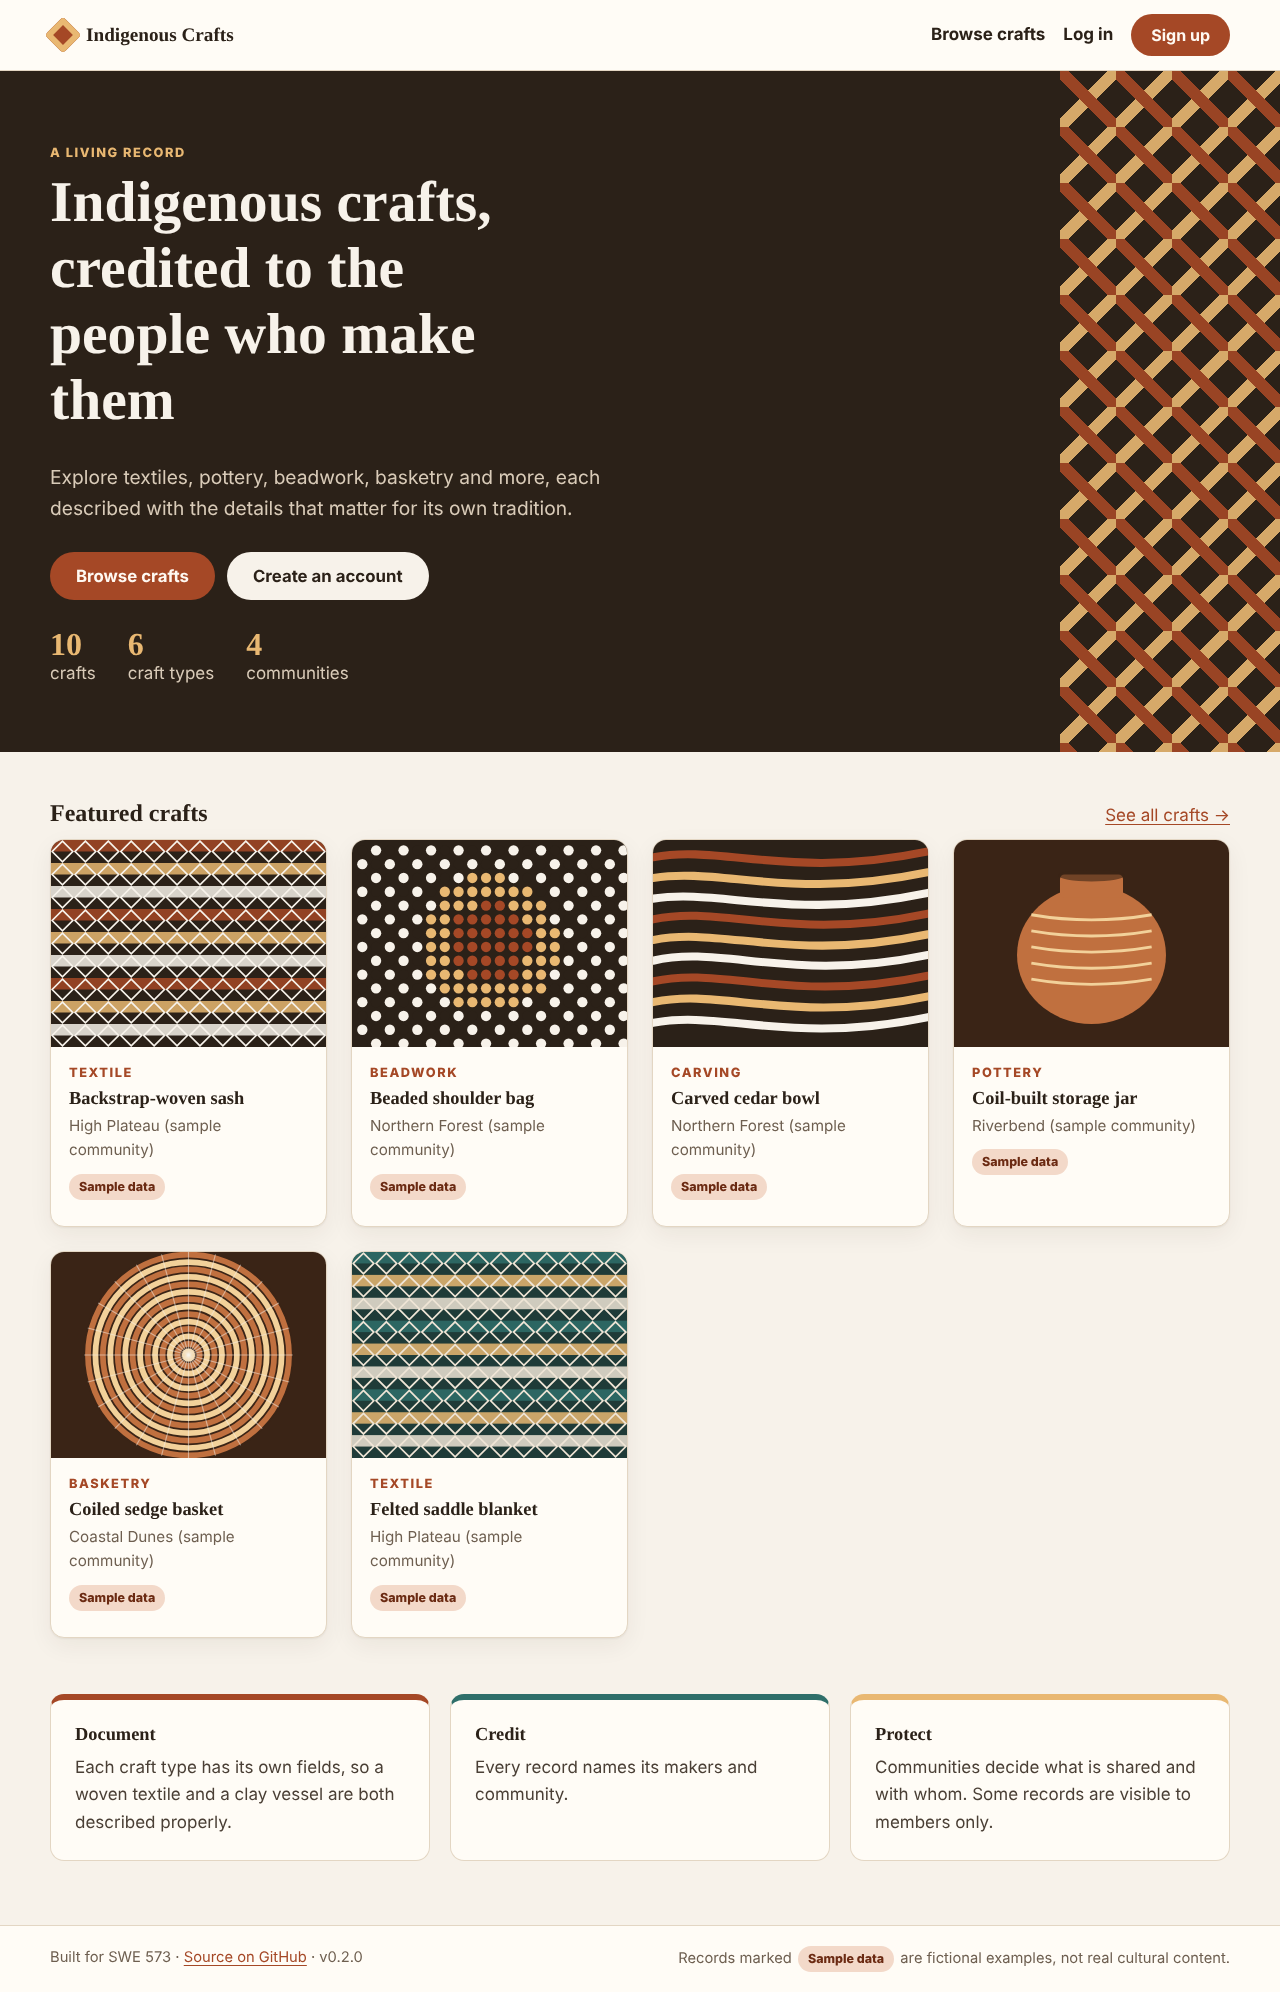
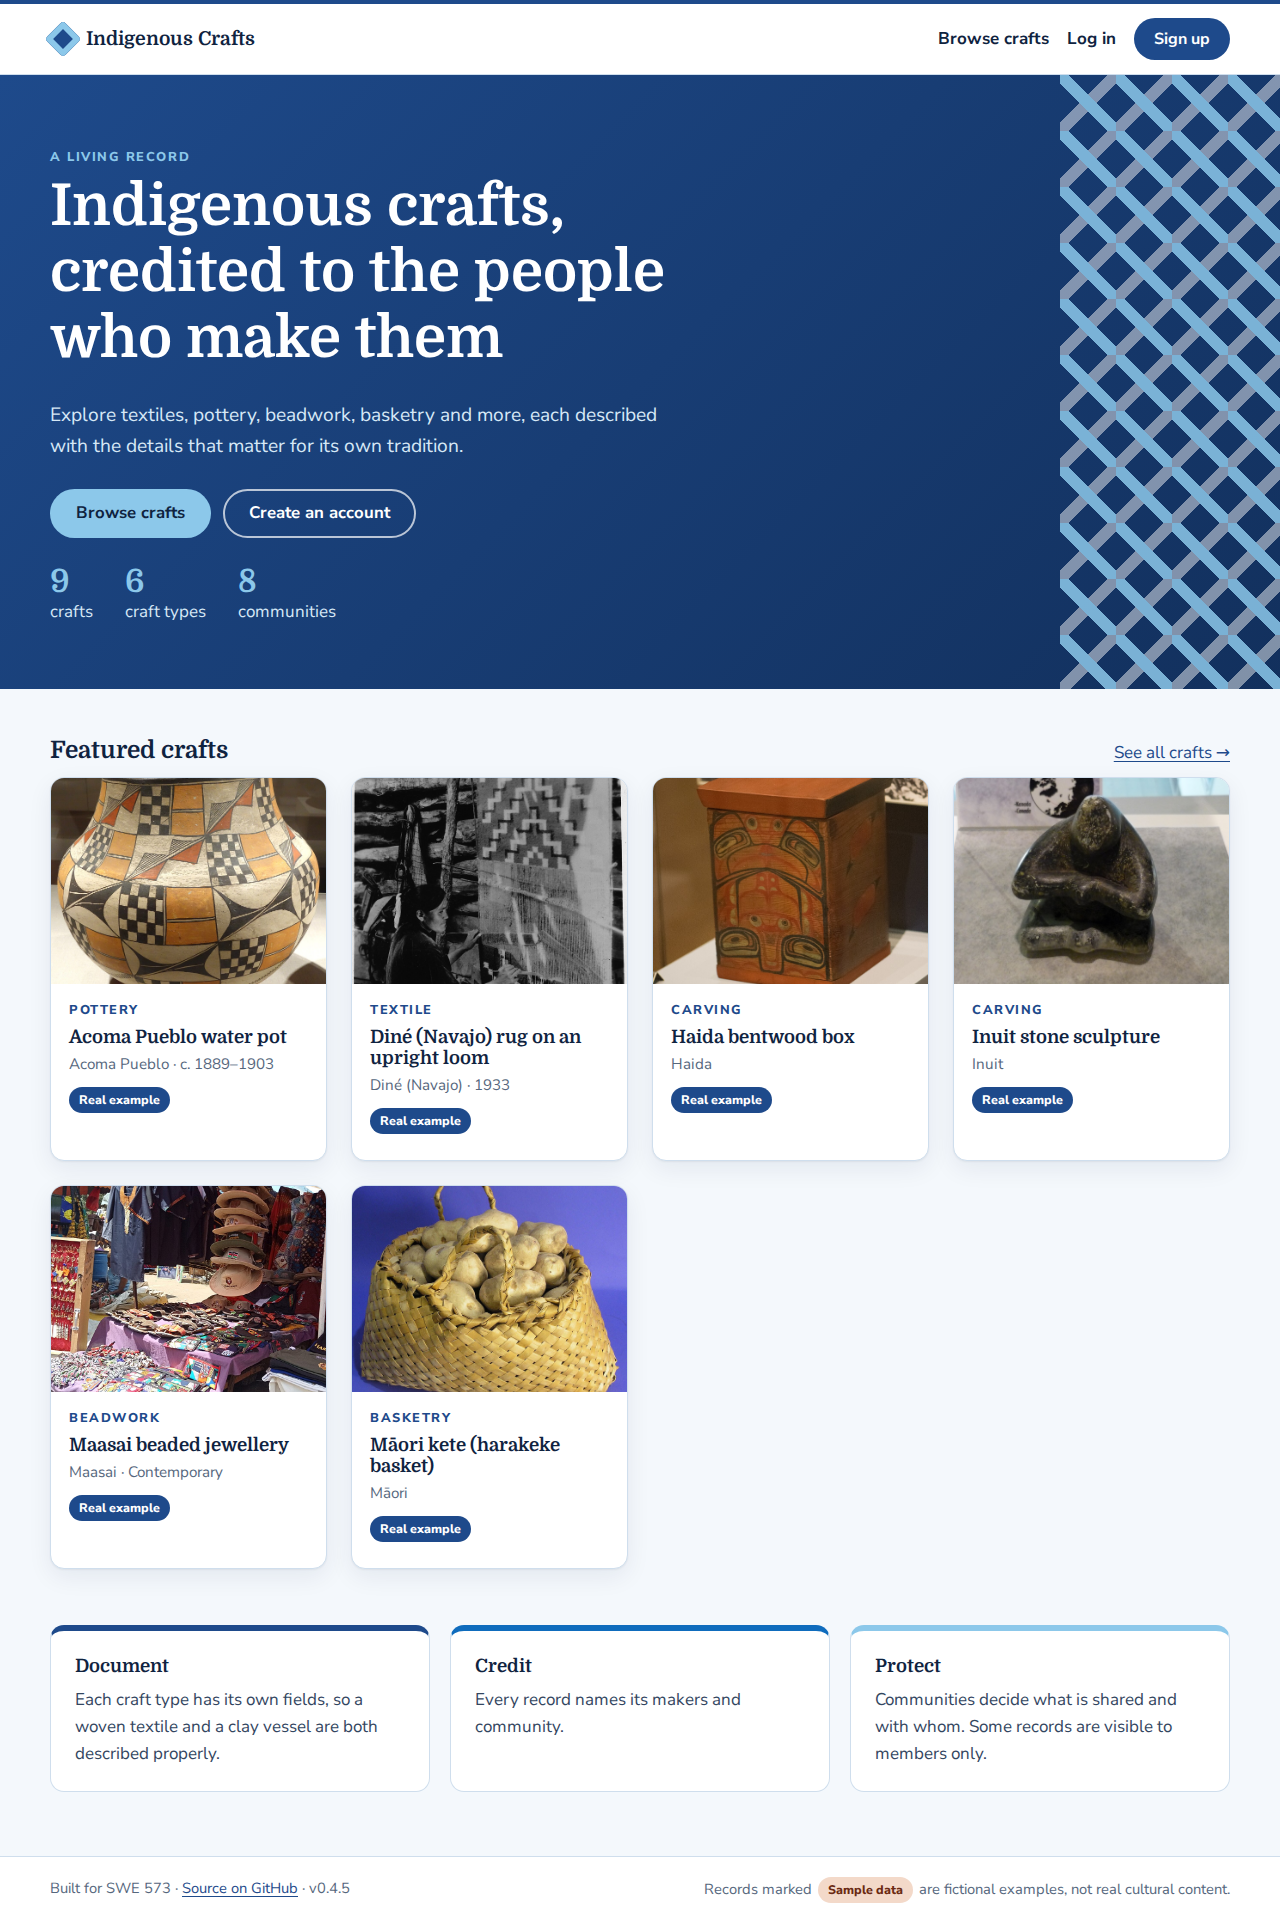
Update the UI design screenshots (v0.4.5) (#83)
* Workflow and script to retake the UI screenshots [take screenshots]

scripts/take_screenshots.py walks the site as a visitor, a new maker and
a phone user, with the real examples loaded. The "UI screenshots"
workflow runs it on GitHub (which can reach Wikimedia Commons and
OpenStreetMap) and commits the images to the branch. Also sorts the
suggested tags case-insensitively.

Claude-Session: https://claude.ai/code/session_018P83JgtRTKuU19G9mVNV45

* UI screenshots taken by the 'UI screenshots' workflow

* Design docs: describe the new screenshots

Groups the 14 screenshots by visitor, accounts and contributing, and
explains how to retake them.

Claude-Session: https://claude.ai/code/session_018P83JgtRTKuU19G9mVNV45

---------

diff --git a/scripts/take_screenshots.py b/scripts/take_screenshots.py
@@ -1,0 +1,176 @@
+"""Take the UI design screenshots in docs/design/screenshots/.
+
+Usage: python scripts/take_screenshots.py http://127.0.0.1:8000 docs/design/screenshots
+
+Expects a fresh database with the real examples loaded (`seed_reference_crafts`).
+Needs internet access for Wikimedia Commons photos and OpenStreetMap tiles, so it runs
+in GitHub Actions (workflow "UI screenshots").
+"""
+
+import os
+import sys
+from pathlib import Path
+
+from playwright.sync_api import Page, sync_playwright
+from playwright.sync_api import TimeoutError as PlaywrightTimeout
+
+BASE = sys.argv[1].rstrip("/")
+OUT = Path(sys.argv[2])
+EXAMPLE = "/crafts/pomo-coiled-dowry-basket-jenny-hughes/"
+PASSWORD = "Woven-Basket-2026"  # noqa: S105 (throwaway demo account in CI)
+OFFLINE = bool(os.environ.get("SCREENSHOT_OFFLINE"))  # selector check without internet
+
+
+def settle(page: Page, maps=False):
+    """Wait until photos (and map tiles) have loaded, so screenshots aren't half-empty."""
+    page.wait_for_load_state("domcontentloaded" if OFFLINE else "networkidle")
+    page.evaluate(
+        "document.querySelectorAll('img[loading=lazy]').forEach(i => i.loading = 'eager')"
+    )
+    if not OFFLINE:
+        try:
+            page.wait_for_function(
+                "Array.from(document.images).every(i => i.complete)", timeout=30_000
+            )
+            if maps:
+                page.wait_for_selector(".leaflet-tile-loaded", timeout=30_000)
+        except PlaywrightTimeout:
+            print("  warning: some images or map tiles did not load in time")
+    page.wait_for_timeout(1500)
+
+
+def shot(page: Page, name, full=True, maps=False):
+    settle(page, maps)
+    page.screenshot(path=OUT / name, full_page=full)
+    print("saved", name)
+
+
+def sign_up(page: Page, email):
+    page.goto(f"{BASE}/accounts/signup/")
+    page.fill("input[name=email]", email)
+    page.fill("input[name=password1]", PASSWORD)
+    page.fill("input[name=password2]", PASSWORD)
+    page.locator("button[type=submit]").click()
+    page.wait_for_load_state()
+
+
+def main():
+    OUT.mkdir(parents=True, exist_ok=True)
+    with sync_playwright() as p:
+        browser = p.chromium.launch(
+            executable_path=os.environ.get("PLAYWRIGHT_CHROMIUM_EXECUTABLE") or None
+        )
+
+        # ---- Visitor, desktop ----
+        desk = browser.new_context(viewport={"width": 1280, "height": 800}, locale="en-GB")
+        page = desk.new_page()
+        page.goto(BASE + "/")
+        shot(page, "01-home.png")
+        page.goto(BASE + "/crafts/")
+        shot(page, "02-catalogue.png")
+        page.goto(BASE + EXAMPLE)
+        shot(page, "03-craft-detail.png", maps=True)
+        page.goto(BASE + "/crafts/?tag=painted")
+        shot(page, "09-catalogue-tag-filter.png")
+
+        page.goto(f"{BASE}/accounts/signup/")
+        page.fill("input[name=email]", "someone@example.com")
+        page.fill("input[name=password1]", "short")
+        page.fill("input[name=password2]", "short")
+        page.locator("button[type=submit]").click()
+        shot(page, "04-signup-validation.png", full=False)
+
+        page.goto(f"{BASE}/accounts/login/")
+        page.fill("input[name=login]", "nobody@example.com")
+        page.fill("input[name=password]", "wrong-password-123")
+        page.locator("button[type=submit]").click()
+        shot(page, "06-login-error.png", full=False)
+
+        # ---- Signed-in maker ----
+        sign_up(page, "demo.maker@example.com")
+        page.goto(f"{BASE}/accounts/profile/edit/")
+        page.fill("#id_display_name", "Demo maker")
+        page.fill("#id_bio", "Documents felt and weaving traditions with the makers' permission.")
+        page.fill("#id_location", "İstanbul, Türkiye")
+        page.get_by_role("button", name="Save profile").click()
+        page.goto(BASE + "/crafts/")
+        shot(page, "05-signed-in-catalogue.png", full=False)
+
+        # Add form: "Other" craft type, community and unit, tags, own details.
+        page.goto(BASE + "/crafts/add/")
+        page.wait_for_selector("form[data-ready=true]", state="attached")
+        page.fill("#id_title", "Felt rug")
+        page.select_option("#id_craft_type", "__other__")
+        page.fill("#id_craft_type_other", "Felt making")
+        page.select_option("#id_community", "__other__")
+        page.fill("#id_community_other", "Yörük")
+        page.fill("#id_summary", "A rug of pressed wool with a ram's-horn motif.")
+        page.fill("#id_tags", "nomadic, wool, everyday use")
+        page.fill("#id_maker_credit", "A Yörük family workshop")
+        page.fill("#id_year_made", "1990")
+        page.check("#id_year_is_approximate")
+        if OFFLINE:
+            page.fill("#id_place_name", "Konya")
+            page.fill("#id_country", "Türkiye")
+        else:
+            page.fill("#place-search", "Konya, Türkiye")
+            page.locator("[data-map-search-button]").click()
+            page.wait_for_function(
+                "document.querySelector('[data-map-status]').textContent.startsWith('Found')",
+                timeout=20_000,
+            )
+        page.fill("#id_mat-0-name", "Wool")
+        page.fill("#id_mat-0-origin", "The family's own sheep")
+        page.fill("#id_mat-0-notes", "Washed, carded and dyed by hand")
+        page.fill("#id_tec-0-name", "Wet felting")
+        page.fill("#id_tec-0-notes", "Rolled in a reed mat with hot water")
+        page.fill("#id_height", "180")
+        page.fill("#id_width", "120")
+        page.select_option("#id_size_unit", "cm")
+        page.fill("#id_weight", "3")
+        page.select_option("#id_weight_unit", "other")
+        page.fill("#id_weight_unit_other", "okka")
+        page.fill("#id_det-0-label", "Dye source")
+        page.fill("#id_det-0-value", "Madder root")
+        page.fill("#id_description", "Made for the family's winter tent.")
+        page.check("input[name=visibility][value=public]")
+        page.locator("#sec-basics").scroll_into_view_if_needed()
+        settle(page)
+        page.locator("#sec-basics").screenshot(path=OUT / "13-form-other-and-tags.png")
+        print("saved 13-form-other-and-tags.png")
+        shot(page, "10-add-craft-form.png", maps=True)
+        page.locator("button[value=publish]").click()
+        page.wait_for_load_state()
+        shot(page, "14-craft-page-own-entries.png", maps=True)
+        profile_url = page.locator(".craft-meta a").first.get_attribute("href")
+
+        # A draft, so "My crafts" shows both states.
+        page.goto(BASE + "/crafts/add/")
+        page.wait_for_selector("form[data-ready=true]", state="attached")
+        page.fill("#id_title", "Kilim (work in progress)")
+        page.select_option("#id_craft_type", label="Textile")
+        page.select_option("#id_community", index=1)
+        page.fill("#id_maker_credit", "A Yörük family workshop")
+        page.locator("button[value=draft]").click()
+        page.wait_for_load_state()
+        page.goto(BASE + "/crafts/mine/")
+        shot(page, "11-my-crafts.png")
+        page.goto(BASE + profile_url)
+        shot(page, "12-maker-profile.png")
+        desk.close()
+
+        # ---- Visitor, phone ----
+        phone = browser.new_context(
+            viewport={"width": 390, "height": 844}, device_scale_factor=2, locale="en-GB"
+        )
+        page = phone.new_page()
+        page.goto(BASE + "/")
+        shot(page, "07-mobile-home.png", full=False)
+        page.goto(BASE + EXAMPLE)
+        shot(page, "08-mobile-detail.png", maps=True)
+        phone.close()
+        browser.close()
+
+
+if __name__ == "__main__":
+    main()

diff --git a/crafts/views.py b/crafts/views.py
@@ -6,6 +6,7 @@ from django.contrib.auth.decorators import login_required
 from django.core.paginator import Paginator
 from django.db import transaction
 from django.db.models import Count
+from django.db.models.functions import Lower
 from django.http import Http404
 from django.shortcuts import get_object_or_404, redirect, render
 from django.views.decorators.http import require_GET
@@ -205,7 +206,9 @@ def _craft_form_page(request, craft=None):
             "craft": craft,
             "editing": editing,
             "new_type": form.new_type_chosen,
-            "popular_tags": Tag.objects.annotate(n=Count("crafts")).order_by("-n", "name")[:12],
+            "popular_tags": Tag.objects.annotate(n=Count("crafts")).order_by("-n", Lower("name"))[
+                :12
+            ],
             "material_names": Material.objects.values_list("name", flat=True),
             "technique_names": Technique.objects.values_list("name", flat=True),
         },

diff --git a/docs/design/README.md b/docs/design/README.md
@@ -1,41 +1,48 @@
 # UI design
 
-The low-fidelity wireframes (T-06) were replaced by the working pages of the M1 demo. These screenshots are the current UI reference. Later milestones add the pages below the line.
+The low-fidelity wireframes (T-06) were replaced by the working pages. These screenshots are the current UI reference for **v0.4.5** (26 Oct 2026), with the real examples, their Wikimedia Commons photos and OpenStreetMap maps.
 
-| Page | Desktop / state | Phone (390 px) |
+To retake them, push a commit whose message contains `[take screenshots]` to any branch other than `main`, or run the **UI screenshots** workflow by hand. The workflow runs [`scripts/take_screenshots.py`](../../scripts/take_screenshots.py) on GitHub, which can reach Commons and OpenStreetMap, and commits the images to that branch.
+
+## Visitor
+
+| Page | Desktop | Phone (390 px) |
 |---|---|---|
-| Home | ![Home](screenshots/01-home.png) | ![Home on phone](screenshots/07-mobile-home.png) |
-| Catalogue (visitor: public crafts only) | ![Catalogue](screenshots/02-catalogue.png) | |
-| Craft detail with craft-type details, credits and report link | ![Detail](screenshots/03-craft-detail.png) | ![Detail on phone](screenshots/08-mobile-detail.png) |
-| Sign up with validation (password ≥ 10 characters) | ![Sign up](screenshots/04-signup-validation.png) | |
-| Signed in: name in header, members-only crafts visible | ![Signed in](screenshots/05-signed-in-catalogue.png) | |
-| Login with generic error message | ![Login error](screenshots/06-login-error.png) | |
+| Home: hero, featured real examples, what the site is for | ![Home](screenshots/01-home.png) | ![Home on phone](screenshots/07-mobile-home.png) |
+| Catalogue: filters by craft type and community; "Real example" badges | ![Catalogue](screenshots/02-catalogue.png) | |
+| Catalogue filtered by a tag (`?tag=painted`), removable as a chip | ![Tag filter](screenshots/09-catalogue-tag-filter.png) | |
+| Craft page: tags, gallery with photo credits and licences, "At a glance", map, materials and techniques in detail, details, sources, report link | ![Craft page](screenshots/03-craft-detail.png) | ![Craft page on phone](screenshots/08-mobile-detail.png) |
 
-## Colours
-Based on Boğaziçi University's corporate identity guide (2020): navy **#1e4a8b** (PANTONE 7686C) as the primary colour, blue **#8cc8ea** (PANTONE 297C) as the secondary. Text is dark navy #0f2340 on blue-white #f4f8fc. Earlier screenshots below show the original earth-tone palette.
-
-![Home in the Boğaziçi palette](screenshots/14-home-bogazici-palette.png)
-
-## Layout principles
-- **Credit first:** maker and community sit directly under the title on every craft page.
-- **Sample data is always labelled.** No real cultural content is shown without consent.
-- **Craft-type details** come from the attribute definitions, so each type shows its own fields.
-- **Accessible basics:** skip link, visible focus ring, labelled form fields, alt text on every image, AA colour contrast.
-- **Low bandwidth:** server-rendered HTML, one CSS file, lazy-loaded images, no JavaScript framework.
-
-## M2: contribute (v0.4.0)
+## Accounts
 
 | Page | Screenshot |
 |---|---|
-| Add a craft: sections, type-specific fields, materials with origin, size with units | ![Add a craft](screenshots/10-add-craft-form.png) |
-| Craft page: gallery, "At a glance" (made by / from / in, size with conversion), materials and techniques in detail | ![Craft page](screenshots/09-craft-page-m2.png) |
-| Craft page on a phone: facts card directly under the photo | ![Phone](screenshots/13-mobile-craft-page-m2.png) |
-| My crafts: drafts and published, edit and delete | ![My crafts](screenshots/11-my-crafts.png) |
-| Maker profile | ![Profile](screenshots/12-maker-profile.png) |
+| Sign up with validation (password ≥ 10 characters) | ![Sign up](screenshots/04-signup-validation.png) |
+| Login with a generic error message | ![Login error](screenshots/06-login-error.png) |
+| Signed in: name in the header, Add a craft and My crafts | ![Signed in](screenshots/05-signed-in-catalogue.png) |
+| Maker profile with the crafts they added | ![Profile](screenshots/12-maker-profile.png) |
 
-The design of the add form and craft page took cues from reference craft-archive sites: a facts sidebar, a location map and a sectioned entry form. It differs in its step navigation, the "Made" summary, materials and techniques with per-row detail, measurements with unit conversion, and privacy controls for places.
+## Contributing
 
-Maps use OpenStreetMap tiles through Leaflet, and place search uses Nominatim. If they can't load, the form still works and coordinates can be typed. The screenshots above were taken offline, so the map areas are empty.
+| Page | Screenshot |
+|---|---|
+| Add a craft: nine sections, map pin, materials with origin and use, size with units, your own details, photos, sharing | ![Add a craft](screenshots/10-add-craft-form.png) |
+| "Other (type your own)" for craft type and community, and tags with suggestions | ![Other and tags](screenshots/13-form-other-and-tags.png) |
+| The resulting craft page: new type and community, tags, a typed weight unit ("3 okka", no conversion), own details, map. No photo was added, so the gallery is empty | ![Own entries](screenshots/14-craft-page-own-entries.png) |
+| My crafts: drafts and published records, edit and delete | ![My crafts](screenshots/11-my-crafts.png) |
+
+## Colours
+Based on Boğaziçi University's corporate identity guide (2020): navy **#1e4a8b** (PANTONE 7686C) as the primary colour, blue **#8cc8ea** (PANTONE 297C) as the secondary. Text is dark navy #0f2340 on blue-white #f4f8fc. Red (errors) and amber (drafts) are kept for status.
+
+## Layout principles
+- **Credit first:** maker and community sit directly under the title on every craft page, and every photo names its author and licence.
+- **Real or sample is always labelled:** real examples carry a "Real example · from public sources" badge and a Sources section; fictional records carry "Sample data".
+- **Nothing forced into a list:** every choice offers "Other (type your own)", and contributors can add their own details and tags.
+- **Craft-type details** come from the attribute definitions, so each type shows its own fields.
+- **Accessible basics:** skip link, visible focus ring, labelled form fields, alt text on every image, AA colour contrast.
+- **Low bandwidth:** server-rendered HTML, one CSS file, lazy-loaded images, no JavaScript framework. The forms work without JavaScript; maps and type-specific fields load on top.
+
+The add form and craft page took cues from reference craft-archive sites: a facts sidebar, a location map and a sectioned entry form. They differ in the step navigation, the "Made" summary, materials and techniques with per-row detail, measurements with unit conversion, and privacy controls for places.
 
 ---
 Next pages (M3–M4): search, roles, consent records, steward review queue, report form.

diff --git a/README.md b/README.md
@@ -28,7 +28,7 @@ Next: **M3 MVP** (search, roles, visibility and consent, steward review), due 8 
 | [M5 – Final product](https://github.com/bakalit01/SWE573-2025719006/milestone/6) | 6 Dec (week 8) | Hardened, documented, tested v1.0 |
 | Buffer | 7–20 Dec (weeks 9–10) | Feedback, polish, stretch goals, final presentation |
 
-![Home page in the Boğaziçi colours](docs/design/screenshots/14-home-bogazici-palette.png)
+![Home page](docs/design/screenshots/01-home.png)
 
 ## Documentation
 | Document | Contents |
